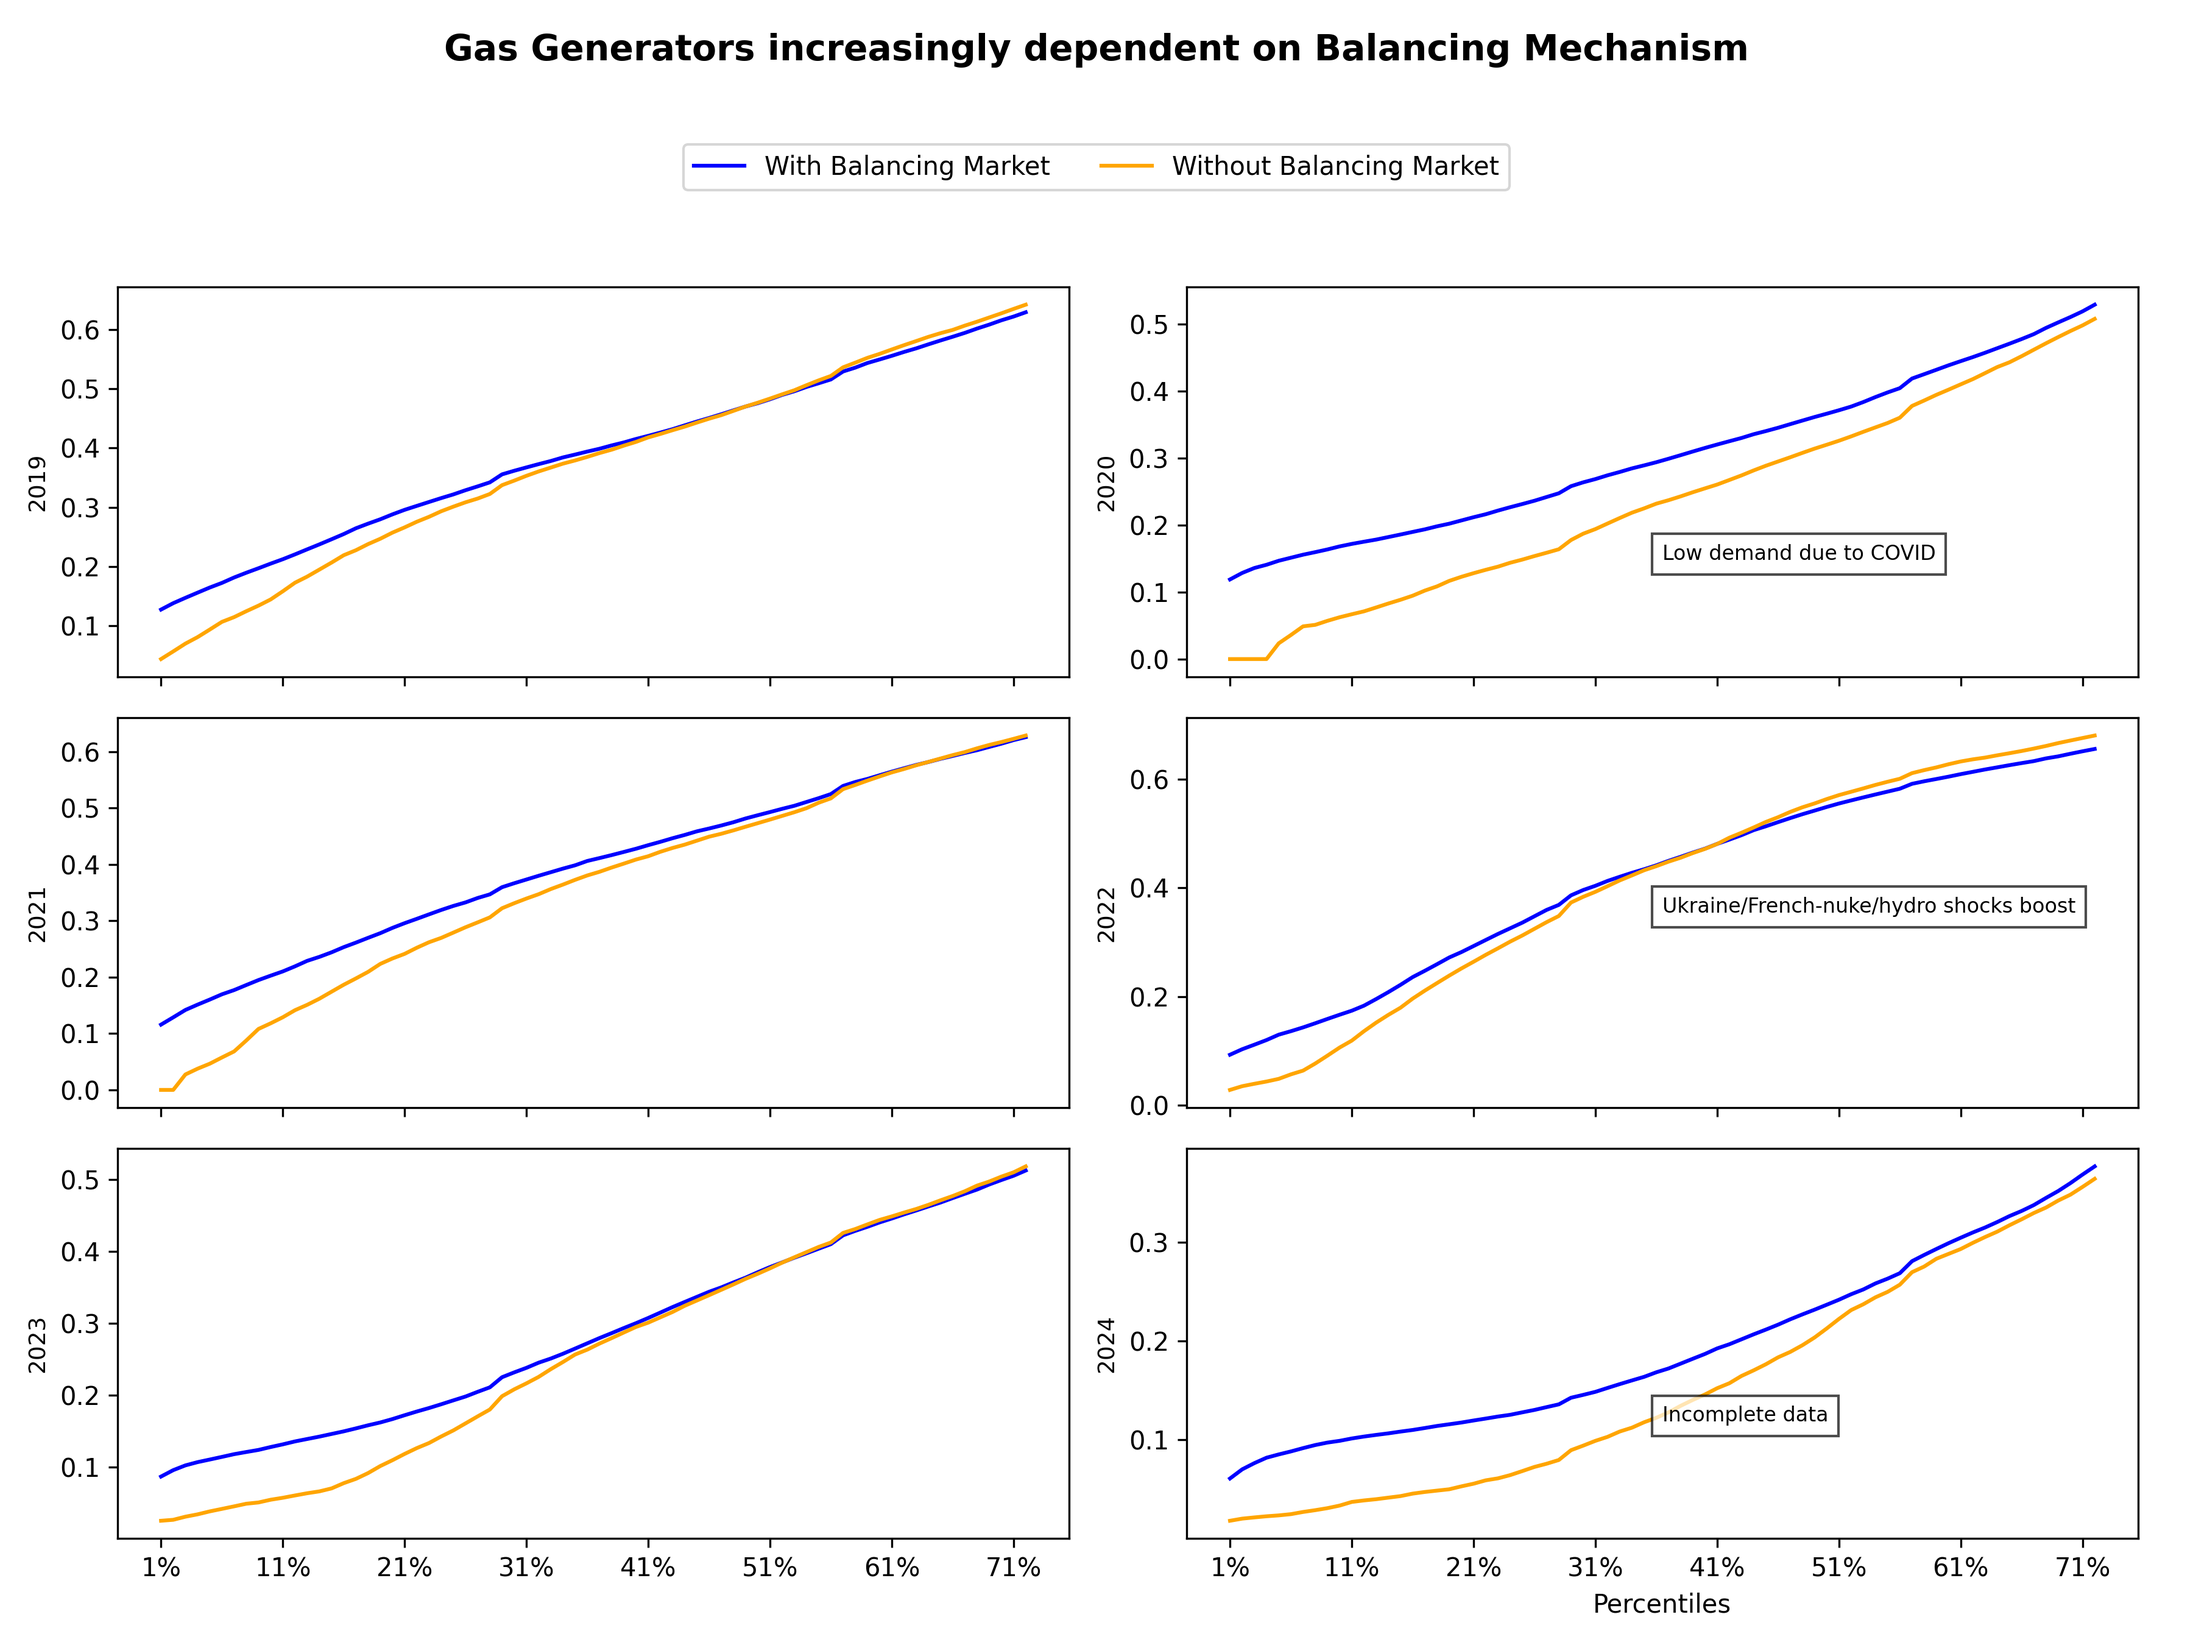
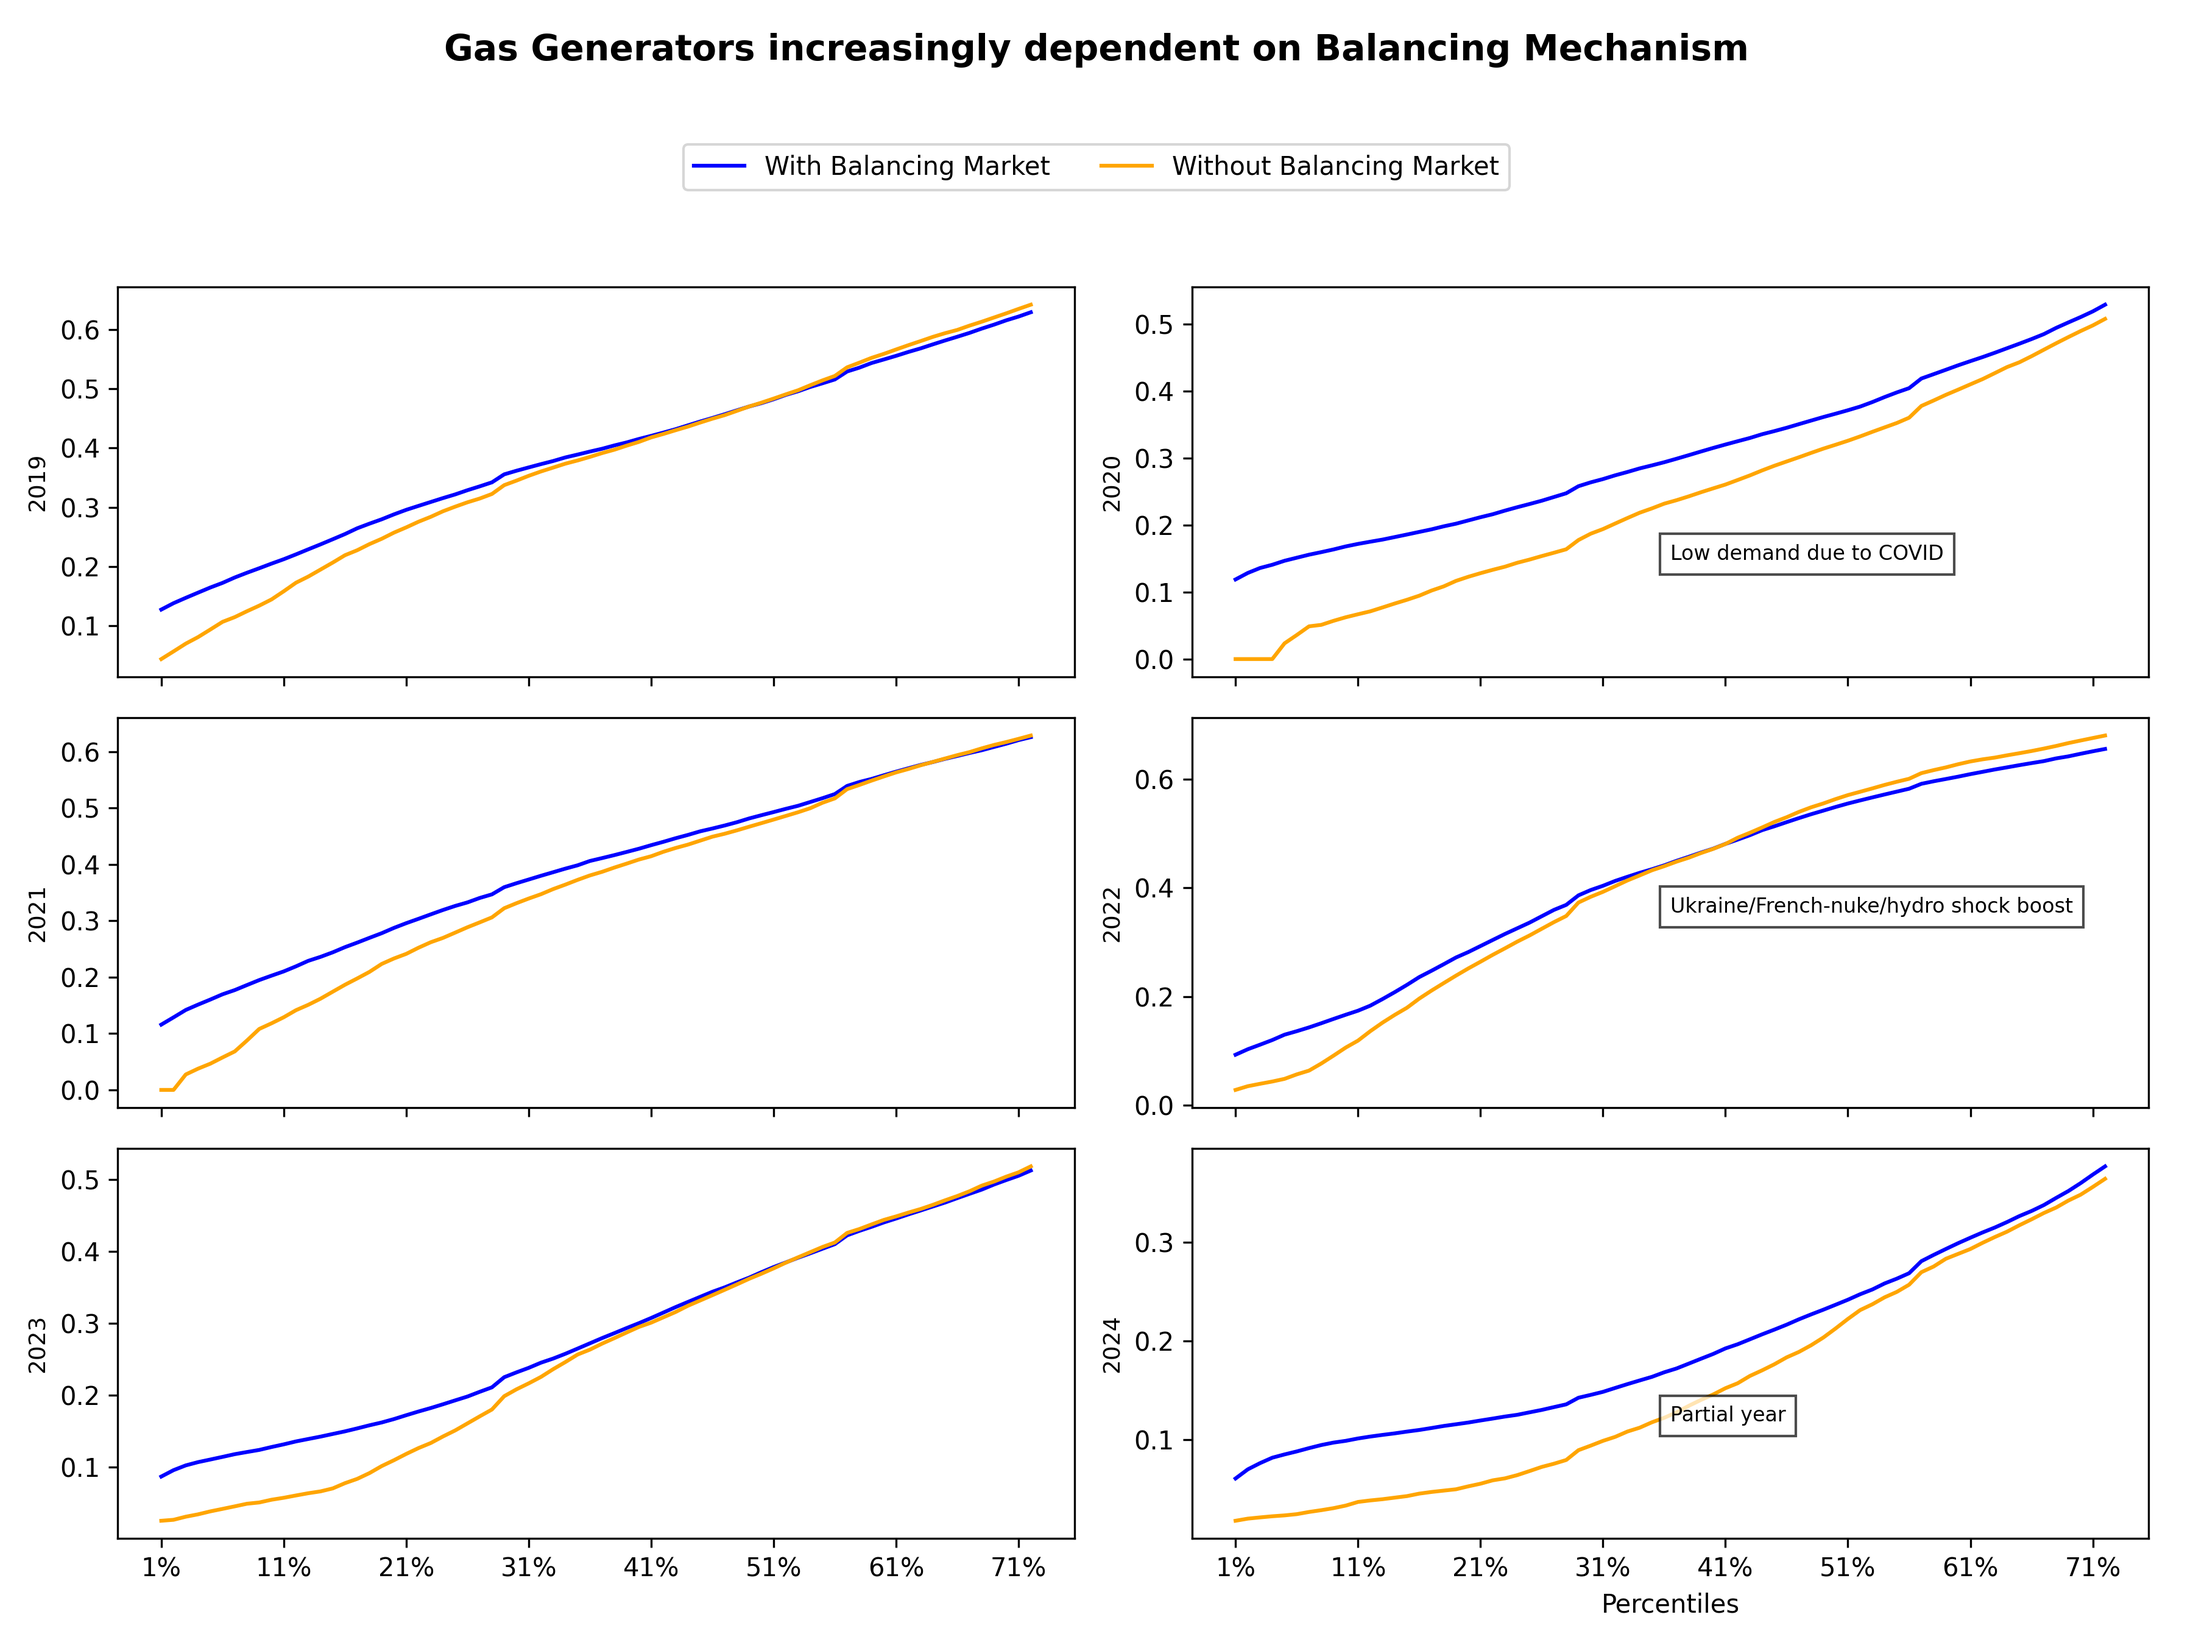
change label

diff --git a/analyse_pn.py b/analyse_pn.py
@@ -108,7 +108,7 @@ def plot_faceted_capacity_factors(year_cf_tuples: List[Tuple[int, pd.Series, pd.
             ax.annotate('Ukraine/French-nuke/hydro shock boost', xy=(0.5, 0.5), xycoords='axes fraction', fontsize=8,
                         bbox=dict(facecolor='white', alpha=0.7))
         elif year == 2024:
-            ax.annotate('Incomplete data', xy=(0.5, 0.3), xycoords='axes fraction', fontsize=8,
+            ax.annotate('Partial year', xy=(0.5, 0.3), xycoords='axes fraction', fontsize=8,
                         bbox=dict(facecolor='white', alpha=0.7))
     
     # Handle any remaining empty subplots in the grid if the number of years is odd
@@ -130,6 +130,8 @@ def plot_faceted_capacity_factors(year_cf_tuples: List[Tuple[int, pd.Series, pd.
     
     # Save the plot with LinkedIn aspect ratio
     plt.savefig("bm_pn_capacity_factors_percentiles_truncated_linkedin.png", dpi=300)
+    
+    plt.show()
 
 def open_all():
     actual = open_actual()
@@ -144,6 +146,8 @@ def open_all():
     
     # Plot faceted graphs for all years
     plot_faceted_capacity_factors(year_cf_tuples)
+    
+    
         
     
 if __name__ == '__main__':
